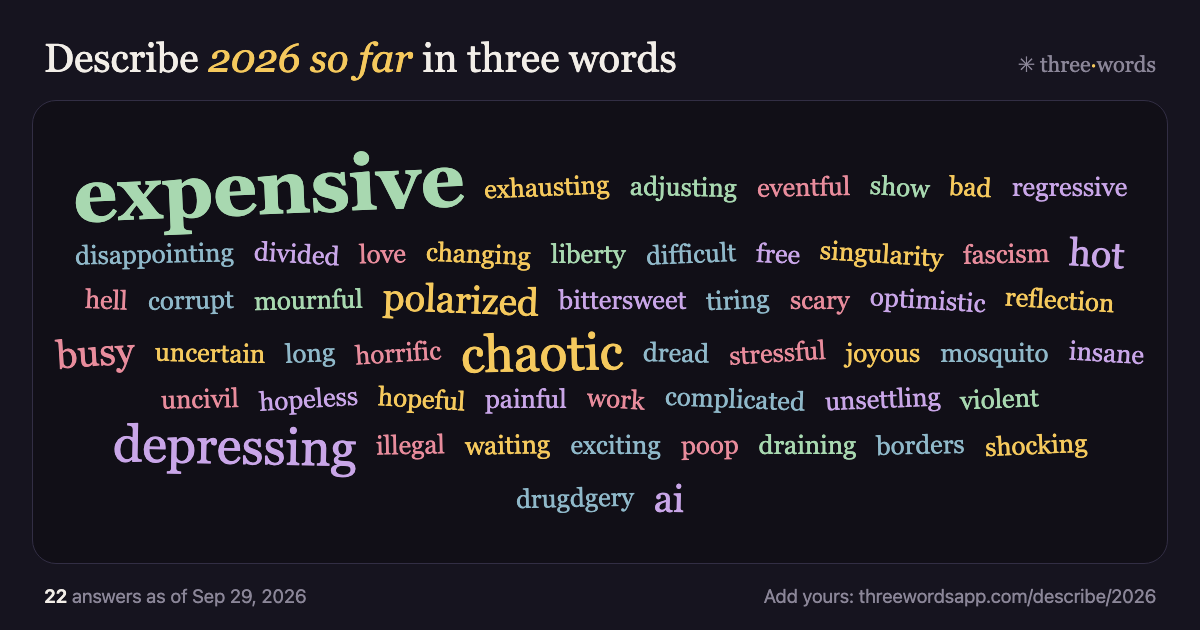
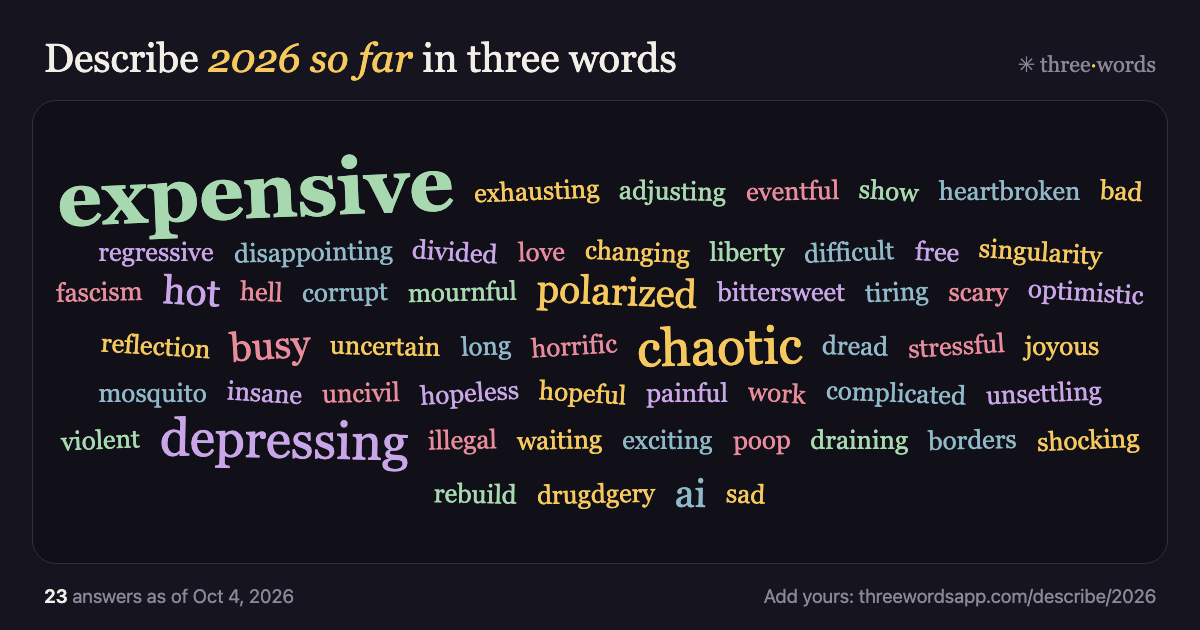
Describe pages: tell visitors they can start a cloud of their own
Held until 1.3.1 was live in both stores (2026-10-04). The offer under the
cloud and in the "your words" card now mentions clouds about anything, and
the "want a cloud for a different subject" note points at the app instead
of an email address. Preview image redrawn with the current answers.

Changed region(s): [[0.0308, 0.2413, 0.9558, 0.754], [0.37, 0.754, 0.6475, 0.8143], [0.0308, 0.9349, 0.2775, 0.9651]]

diff --git a/docs/describe/2026/index.html b/docs/describe/2026/index.html
@@ -11,7 +11,7 @@
 <meta property="og:title" content="Describe 2026 so far in three words" />
 <meta property="og:description" content="A live word cloud of how strangers describe the year so far. Anonymous, three words, one set per person." />
 <meta property="og:url" content="https://threewordsapp.com/describe/2026/" />
-<meta property="og:image" content="https://threewordsapp.com/describe/2026/og.png?v=20260929" />
+<meta property="og:image" content="https://threewordsapp.com/describe/2026/og.png?v=20261004" />
 <meta property="og:image:width" content="1200" />
 <meta property="og:image:height" content="630" />
 <meta property="og:image:alt" content="Word cloud of how people describe 2026 so far. The most-said words are expensive, chaotic and depressing." />
@@ -70,7 +70,7 @@
   footer a { color:#8B8698; text-decoration:none; margin:0 8px; }
   footer a:hover { color:#F5C95D; }
 </style>
-<link rel="stylesheet" href="/describe/cloud.css?v=4" />
+<link rel="stylesheet" href="/describe/cloud.css?v=5" />
 </head>
 <body>
 <main data-topic="2026">
@@ -107,9 +107,10 @@
   <div class="card cta">
     <p class="ctah">That's how strangers describe <span class="tname">2026 so far</span>.</p>
     <p>Now find out how the people who know <em>you</em> describe <em>you</em>.</p>
+    <p class="also">Or start a cloud like this one about anything: a trip, a team, a year.</p>
     <a class="btn ios" data-track="ios" href="https://apps.apple.com/app/id6786531783">Get three·words on iPhone</a>
     <a class="btn android" data-track="android" href="https://play.google.com/store/apps/details?id=com.davidgerken.threewords">Get it on Google Play</a>
-    <p class="muted">Free. No feed, no followers, no ads. Your people answer from a link — they never need the app.</p>
+    <p class="muted">Free. No feed, no followers, no ads. People answer from a link — they never need the app.</p>
   </div>
 
   <div class="about">
@@ -121,7 +122,7 @@
     change yours, not add more). A filter blocks slurs before they're saved, and words that are cruel rather than honest
     get removed by hand. Beyond your three words, the only things stored are a random token your browser keeps so you can
     edit them and a hashed IP for rate-limiting — see the <a href="/privacy/">privacy policy</a>.</p>
-    <p>Want a cloud for a different subject? Email <a href="mailto:admin@threewordsapp.com">admin@threewordsapp.com</a>.</p>
+    <p><strong>Want a cloud for a different subject?</strong> Start one in the <a href="/">three·words app</a>. You choose the subject, share the link, and people answer from their browser like you did here.</p>
   </div>
 
   <footer>
@@ -132,6 +133,6 @@
     <a href="/privacy/">Privacy</a>
   </footer>
 </main>
-<script src="/describe/cloud.js?v=5"></script>
+<script src="/describe/cloud.js?v=6"></script>
 </body>
 </html>

diff --git a/docs/describe/index.html b/docs/describe/index.html
@@ -73,7 +73,7 @@
   footer a { color:#8B8698; text-decoration:none; margin:0 8px; }
   footer a:hover { color:#F5C95D; }
 </style>
-<link rel="stylesheet" href="/describe/cloud.css?v=4" />
+<link rel="stylesheet" href="/describe/cloud.css?v=5" />
 </head>
 <body>
 <main>
@@ -119,9 +119,10 @@
     <div class="card cta">
       <p class="ctah">That's how strangers describe <span class="tname">it</span>.</p>
       <p>Now find out how the people who know <em>you</em> describe <em>you</em>.</p>
+      <p class="also">Or start a cloud like this one about anything: a trip, a team, a year.</p>
       <a class="btn ios" data-track="ios" href="https://apps.apple.com/app/id6786531783">Get three·words on iPhone</a>
       <a class="btn android" data-track="android" href="https://play.google.com/store/apps/details?id=com.davidgerken.threewords">Get it on Google Play</a>
-      <p class="muted">Free. No feed, no followers, no ads. Your people answer from a link — they never need the app.</p>
+      <p class="muted">Free. No feed, no followers, no ads. People answer from a link — they never need the app.</p>
     </div>
   </div>
 
@@ -134,7 +135,7 @@
     change yours, not add more). A filter blocks slurs before they're saved, and words that are cruel rather than honest
     get removed by hand. Beyond your three words, the only things stored are a random token your browser keeps so you can
     edit them and a hashed IP for rate-limiting — see the <a href="/privacy/">privacy policy</a>.</p>
-    <p>Want a cloud for a different subject? Email <a href="mailto:admin@threewordsapp.com">admin@threewordsapp.com</a>.</p>
+    <p><strong>Want a cloud for a different subject?</strong> Start one in the <a href="/">three·words app</a>. You choose the subject, share the link, and people answer from their browser like you did here.</p>
   </div>
 
   <footer>
@@ -145,6 +146,6 @@
     <a href="/privacy/">Privacy</a>
   </footer>
 </main>
-<script src="/describe/cloud.js?v=5"></script>
+<script src="/describe/cloud.js?v=6"></script>
 </body>
 </html>

diff --git a/docs/c/index.html b/docs/c/index.html
@@ -64,7 +64,7 @@
   footer a { color:#8B8698; text-decoration:none; margin:0 8px; }
   footer a:hover { color:#F5C95D; }
 </style>
-<link rel="stylesheet" href="/describe/cloud.css?v=4" />
+<link rel="stylesheet" href="/describe/cloud.css?v=5" />
 </head>
 <body>
 <script>if (!new URLSearchParams(location.search).get("t")) location.replace("/describe/");</script>
@@ -103,9 +103,10 @@
     <div class="card cta">
       <p class="ctah">That's how strangers describe <span class="tname">it</span>.</p>
       <p>Now find out how the people who know <em>you</em> describe <em>you</em>.</p>
+      <p class="also">Or start a cloud like this one about anything: a trip, a team, a year.</p>
       <a class="btn ios" data-track="ios" href="https://apps.apple.com/app/id6786531783">Get three·words on iPhone</a>
       <a class="btn android" data-track="android" href="https://play.google.com/store/apps/details?id=com.davidgerken.threewords">Get it on Google Play</a>
-      <p class="muted">Free. No feed, no followers, no ads. Your people answer from a link — they never need the app.</p>
+      <p class="muted">Free. No feed, no followers, no ads. People answer from a link — they never need the app.</p>
     </div>
   </div>
 
@@ -131,6 +132,6 @@
     <a href="/privacy/">Privacy</a>
   </footer>
 </main>
-<script src="/describe/cloud.js?v=5"></script>
+<script src="/describe/cloud.js?v=6"></script>
 </body>
 </html>

diff --git a/docs/describe/cloud.js b/docs/describe/cloud.js
@@ -244,7 +244,7 @@
     const ios = /iPhone|iPad|iPod/.test(ua), android = /Android/.test(ua);
     const nudge = document.createElement('p');
     nudge.className = 'nudge';
-    nudge.innerHTML = 'Now the personal version: how would the people who know <em>you</em> describe you? '
+    nudge.innerHTML = 'Want a cloud of your own? Ask the people who know <em>you</em> to describe you, or start one about anything. '
       + (ios ? '<a data-track="ios" href="https://apps.apple.com/app/id6786531783">Get your own cloud →</a>'
         : android ? '<a data-track="android" href="https://play.google.com/store/apps/details?id=com.davidgerken.threewords">Get your own cloud →</a>'
         : '<a href="#get" id="nudgejump">Get your own cloud →</a>');

diff --git a/docs/describe/cloud.css b/docs/describe/cloud.css
@@ -29,6 +29,9 @@ button.linkish { width:auto; background:none; border:0; padding:4px 6px; margin:
   font-weight:400; text-decoration:underline; cursor:pointer; }
 button.linkish:hover { color:#E88C9C; }
 
+/* Second line of the app offer under the cloud. */
+.cta p.also { margin-top:-8px; color:#A9A3B8; font-size:15px; text-wrap:balance; }
+
 /* The offer shown with "your words", once someone has answered. */
 #mine .nudge { margin:14px 0 0; padding-top:12px; border-top:1px solid #322E44; color:#C9C4D6; font-size:15px;
   line-height:1.5; text-wrap:balance; }
